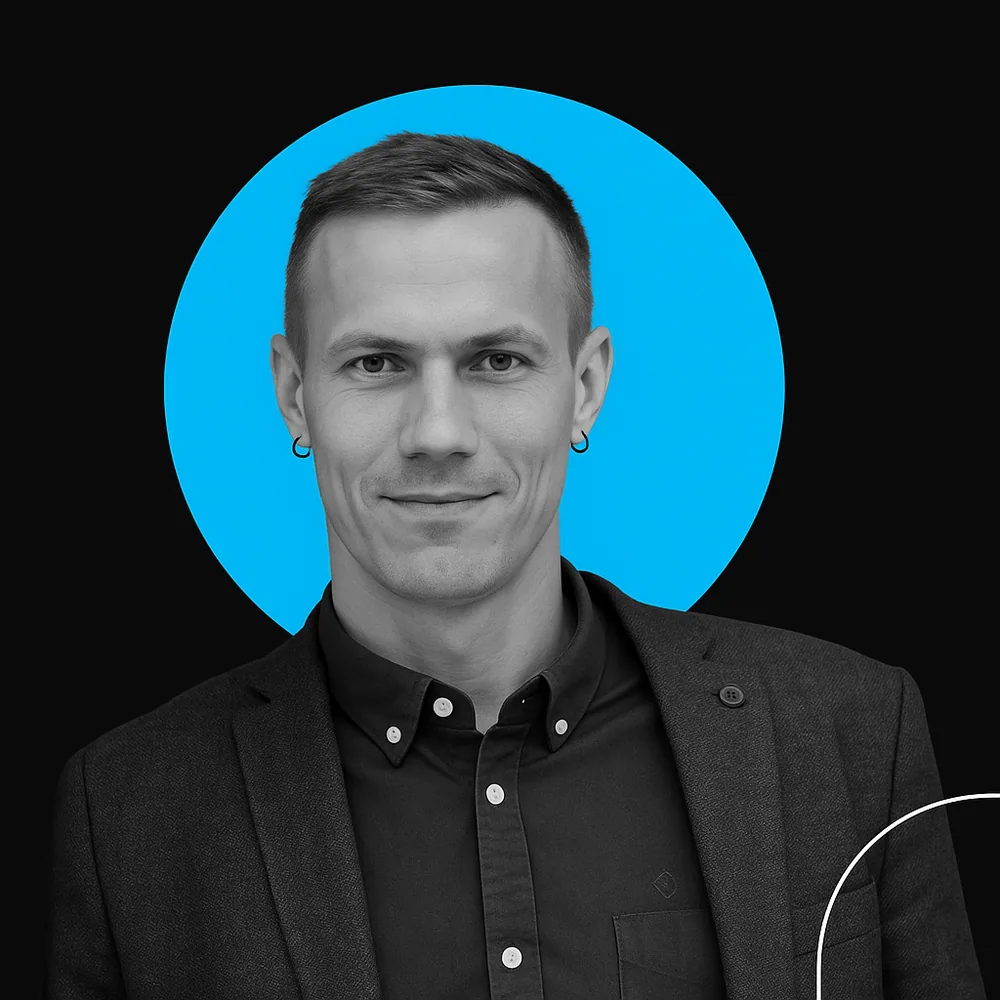
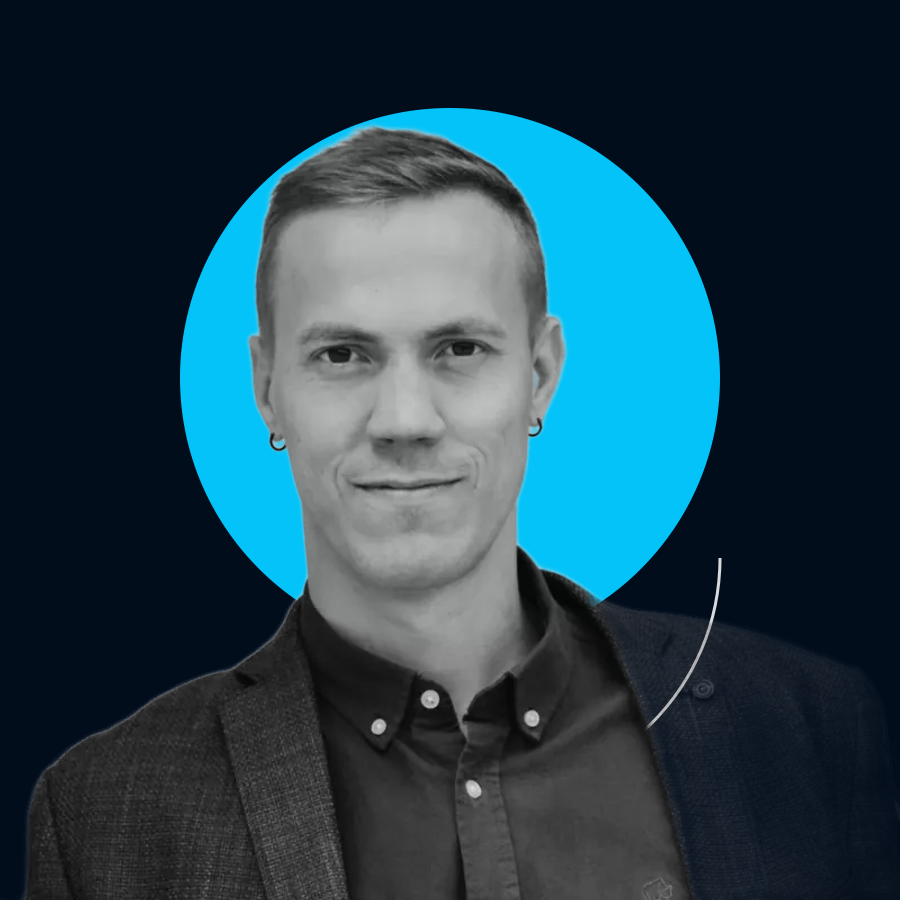
Team portraits: non-generative pipeline, faces are the original photographs
No model touches a face any more. images/edits is a generation call — it
re-draws the whole picture, which is why it kept substituting different people
for real team members. Replaced with tools/brand-portraits.mjs:

  1. sharp square-crops the ORIGINAL photograph
  2. a local ONNX matting model produces an alpha cutout — it decides
     transparency only, never colour, and runs in a separate process because
     libvips and onnxruntime together crash with a GLib-GObject error
  3. the navy field, cyan disc and white arc are drawn as flat SVG
  4. the original RGB is masked with that alpha via composite(dest-in) and
     laid over the backdrop

Three traps found on the way, all recorded in CLAUDE.md: joinChannel loses the
alpha at PNG encode so the original background silently survived; the matting
library's own RGB is resampled internally and drifts ~1.6/255 from the source,
so only its alpha is used; and checking "background differs from source" is the
wrong test — Madara's original background is already near-black, so it reported
4.5% replacement on a perfectly good cutout. The check now validates the drawn
backdrop colour instead.

The tool self-verifies per portrait and fails loudly: subject pixel difference
against the original must be <=2.5/255 (measured ~1.0, which is alpha
compositing rounding) and backdrop coverage must exceed 95%, which catches an
opaque cutout that would otherwise make the pixel check pass trivially. All
eight portraits pass.

diff --git a/src/pages/sazinies.html b/src/pages/sazinies.html
@@ -91,27 +91,27 @@ permalink: "/sazinies/"
     </div>
     <div class="team-grid">
       <div class="team-card">
-        <img src="/img/2024/07/Untitled-design-3.webp" alt="Rihards Zeiļa" loading="lazy">
+        <img src="/img/team/rihards-brand.webp" alt="Rihards Zeiļa" loading="lazy">
         <h3>Rihards Zeiļa</h3>
         <p>Aģentūras vadītājs</p>
       </div>
       <div class="team-card">
-        <img src="/img/2025/09/Screenshot-2025-09-28-132933.webp" alt="Roberts Lūsiņš" loading="lazy">
+        <img src="/img/team/roberts-brand.webp" alt="Roberts Lūsiņš" loading="lazy">
         <h3>Roberts Lūsiņš</h3>
         <p>Meta reklāmas speciālists</p>
       </div>
       <div class="team-card">
-        <img src="/img/2020/12/b-w.webp" alt="Kristaps Apeināns" loading="lazy">
+        <img src="/img/team/kristaps-brand.webp" alt="Kristaps Apeināns" loading="lazy">
         <h3>Kristaps Apeināns</h3>
         <p>Google reklāmas speciālists</p>
       </div>
       <div class="team-card">
-        <img src="/img/2024/04/Untitled-design-2.webp" alt="Matīss Seipulāns" loading="lazy">
+        <img src="/img/team/matiss-brand.webp" alt="Matīss Seipulāns" loading="lazy">
         <h3>Matīss Seipulāns</h3>
         <p>SEO speciālists</p>
       </div>
       <div class="team-card">
-        <img src="/img/2021/09/FullSizeRender-1.webp" alt="Katrīna Malacanova" loading="lazy">
+        <img src="/img/team/katrina-brand.webp" alt="Katrīna Malacanova" loading="lazy">
         <h3>Katrīna Malacanova</h3>
         <p>Grafiskā dizainere</p>
       </div>
@@ -123,7 +123,7 @@ permalink: "/sazinies/"
   <div class="container">
     <div class="row cols-2 top">
       <div class="col">
-        <figure class="img"><img src="/img/2024/07/Untitled-design-4.webp" alt="Rihards Zeiļa" loading="lazy"></figure>
+        <figure class="img"><img src="/img/team/rihards-wide-brand.webp" alt="Rihards Zeiļa" loading="lazy"></figure>
       </div>
       <div class="col">
         <span class="eyebrow"><span class="idx">02</span> Par Rihardu</span>

diff --git a/src/pages/seo-kursi.html b/src/pages/seo-kursi.html
@@ -91,7 +91,7 @@ permalink: "/seo-kursi/"
         </div>
         <div class="instructor-card">
           <div class="who">
-            <img src="/img/2025/03/Untitled-design-2.webp" alt="Matīss Valters Seipulāns" loading="lazy">
+            <img src="/img/team/matiss-seo-brand.webp" alt="Matīss Valters Seipulāns" loading="lazy">
             <div><strong>Matīss Valters Seipulāns</strong><span>Kursa pasniedzējs</span></div>
           </div>
           <p>Digitālā mārketinga speciālists ar 8 gadu pieredzi, fokusējoties uz SEO. Strādājis ar uzņēmumiem Latvijā, Eiropā, Dienvidamerikā un Āzijā, kopā pārvaldījis 15M EUR reklāmas budžetu. Sava darba rezultātā palielinājis organisko apmeklētāju skaitu 2–10 reizes.</p>

diff --git a/src/pages/tiktok-kursi.html b/src/pages/tiktok-kursi.html
@@ -80,7 +80,7 @@ image: "/img/2025/03/Copy-of-Digital-1200-628px-2.jpg"
         </div>
         <div class="instructor-card">
           <div class="who">
-            <img src="/img/2025/03/Untitled-design-3.webp" alt="Madara Dakse" loading="lazy">
+            <img src="/img/team/madara-brand.webp" alt="Madara Dakse" loading="lazy">
             <div><strong>Madara Dakse</strong><span>Kursa pasniedzēja</span></div>
           </div>
           <p>Vairāk nekā astoņu gadu pieredze mārketingā, piecus no tiem specializējoties TikTok reklāmas platformā. Pieredze ar vietējiem un starptautiskiem klientiem, kā arī apmācību vadīšana dažādām auditorijām — no reklāmas kampaņām līdz organiskā satura stratēģijai.</p>

diff --git a/src/pages/meta-reklamas-kurss.html b/src/pages/meta-reklamas-kurss.html
@@ -90,7 +90,7 @@ permalink: "/meta-reklamas-kurss/"
         </div>
         <div class="instructor-card">
           <div class="who">
-            <img src="/img/2024/07/Untitled-design-3.webp" alt="Rihards Zeiļa" loading="lazy">
+            <img src="/img/team/rihards-brand.webp" alt="Rihards Zeiļa" loading="lazy">
             <div><strong>Rihards Zeiļa</strong><span>Kursa pasniedzējs</span></div>
           </div>
           <p>RBS MBA kursa “Digitālais mārketings” pasniedzējs un aģentūras “Mārketinga skola” dibinātājs. 10 gadu pieredzē pārvaldījis reklāmas budžetus vairāku miljonu eiro apmērā, strādājot ar vairāk nekā 100 uzņēmumiem e-komercijā un klientu piesaistē.</p>

diff --git a/src/pages/marketinga-konsultacijas.html b/src/pages/marketinga-konsultacijas.html
@@ -145,7 +145,7 @@ permalink: "/marketinga-konsultacijas/"
         </div>
         <div class="instructor-card">
           <div class="who">
-            <img src="/img/2024/07/Untitled-design-3.webp" alt="Rihards Zeiļa" loading="lazy">
+            <img src="/img/team/rihards-brand.webp" alt="Rihards Zeiļa" loading="lazy">
             <div><strong>Rihards Zeiļa</strong><span>Konsultāciju vadītājs</span></div>
           </div>
           <p>Mārketinga skolas dibinātājs un RBS MBA kursa “Digitālais mārketings” pasniedzējs. Konsultācijas vada pats — nav starpnieku un projektu vadītāju.</p>

diff --git a/src/pages/facebook-kursi.html b/src/pages/facebook-kursi.html
@@ -280,7 +280,7 @@ image: "/img/2024/04/L15abIxRLoo57p4DsV1Q_Copy-of-Vai-pedeja-laika-esi-saskaries
       <div class="col">
         <div class="instructor-card">
           <div class="who">
-            <img src="/img/2024/07/Untitled-design-3.webp" alt="Rihards Zeiļa" loading="lazy">
+            <img src="/img/team/rihards-brand.webp" alt="Rihards Zeiļa" loading="lazy">
             <div><strong>Rihards Zeiļa</strong><span>Kursa pasniedzējs</span></div>
           </div>
           <p>Mārketinga Skolas aģentūras vadītājs. Ieguvis Meta Media Buying un Meta Media Planning sertifikācijas.</p>

diff --git a/CLAUDE.md b/CLAUDE.md
@@ -143,32 +143,29 @@ History, so nobody relitigates it:
   did this guy in the main page, use openai api and add the cyan elements/accents, not just
   change the shade slightly."*
 
-**The settled rule:** the OpenAI image-edit endpoint MAY be used on team photographs — but the
-person must survive untouched, and the PROMPT SHAPE is what decides whether they do.
+**The settled rule: team faces are NEVER generated.** `images/edits` is a *generation* call —
+it re-draws the whole picture and repeatedly substituted different people. Owner: *"you changed
+their faces to someone else"*. Prompt engineering did not fix it and must not be relied on.
 
-**The lesson that cost three rounds:** `images/edits` is a *generation* call, not a compositing
-call — it re-draws the whole picture, face included. What determines the outcome is where the
-likeness instruction sits relative to everything else:
-- Burying "keep the likeness" under transformation instructions (cut out / convert to B&W / add
-  shapes) invites a full re-render, and the faces drifted every time. Owner: *"OpenAI or YOU still
-  changed people's appearance in my team!"*
-- Leading with **"KEEP THE LIKENESS OF THE PERSON PERFECTLY"**, enumerating the features that must
-  not move, and then scoping the edit to **the background only** works. Owner: *"tell the prompt to
-  adjust the image and KEEP the likeness of the person perfectly! Has worked for me every time."*
-- Never ask the model for the greyscale — that is a whole-image restyle. `selectiveGrey()` in the
-  tool desaturates locally by hue, keeping the cyan disc, and cannot move a facial feature.
+`npm run portraits:brand` → `tools/brand-portraits.mjs` (non-generative):
+1. sharp square-crops the ORIGINAL photograph;
+2. `tools/_matte.mjs` produces an alpha cutout with a local ONNX model — it decides
+   *transparency only*, never colour. It runs in a SEPARATE PROCESS: loading libvips (sharp) and
+   onnxruntime together dies with a GLib-GObject error on Windows;
+3. the navy field, cyan disc and white arc are drawn as flat SVG;
+4. the original RGB is masked with the matte's alpha via `composite(blend:'dest-in')` and
+   composited over that backdrop.
+   *Not* `joinChannel` — it silently loses the alpha at PNG encode and the original background
+   survives. *Not* the matte library's own RGB — it resamples internally (~1.6/255 drift).
 
-- `npm run portraits:brand` → `tools/restyle-portraits.mjs`. Output: `src/img/team/<id>-brand.webp`.
-  Also demand a PHOTOGRAPH explicitly: an early prompt said "flat graphic illustration" and returned
-  vectorised line art with a hardened, older face.
-- **Always diff the result against the source before shipping** (the tool's compare sheet). Check
-  face, build, hairstyle and especially HAIR COLOUR — Katrīna was turned brunette once.
-- `tools/brand-portraits.mjs` is an unfinished non-generative alternative (local ONNX matting via
-  @imgly/background-removal-node, then compositing the original pixels over a drawn backdrop). It
-  currently dies on a libvips/GLib error on this machine. It is the safest approach in principle —
-  the face is literally the original pixels — so it is worth fixing if likeness ever regresses again.
-- `npm run portraits` → `tools/grade-portraits.mjs` is the no-AI fallback: local colour maths only.
-- Originals stay in `src/img/YYYY/MM/…` and remain the source of truth for every tool.
+The tool self-verifies and fails loudly:
+- **subject pixel diff vs the original must be ≤2.5/255** (~1.0 is alpha-compositing rounding);
+- **backdrop coverage must be >95%**, which catches an opaque cutout that would make the pixel
+  check pass trivially. Compare the backdrop *colour*, never "differs from the source" — Madara's
+  original background is already near-black, so that test wrongly reported 4.5%.
+
+Sources stay in `src/img/YYYY/MM/…` and are the source of truth. `npm run portraits`
+(`tools/grade-portraits.mjs`) is the plain local-colour-grade fallback.
 
 ## Client / partner logos
 
